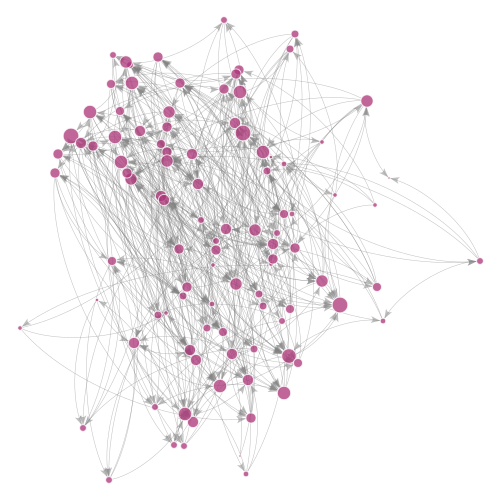
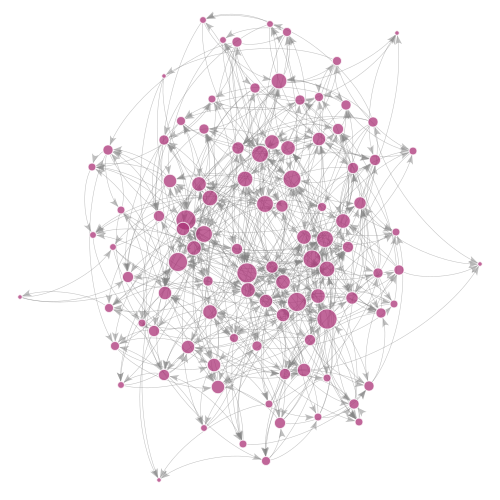
Update picture in README

diff --git a/README.md b/README.md
@@ -18,7 +18,7 @@ To report a problem, please create an issue here. To contribute some code, pleas
 ```julia
 using Junet
 
-g = erdosrenyi(100, .05)
+g = graph_erdosrenyi(100, .05)
 
 plot(g, node_size=degree(g), edge_curved=.5)
 ```
